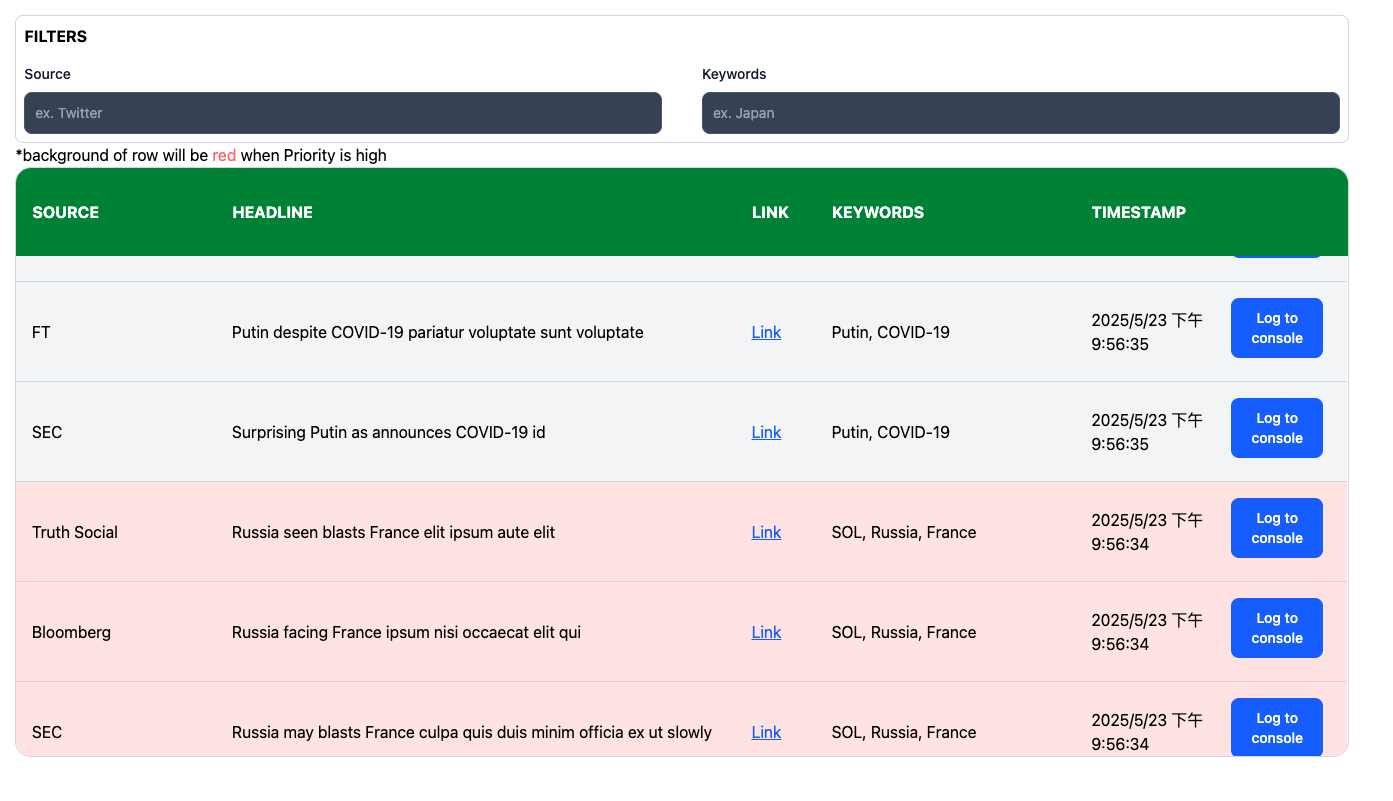
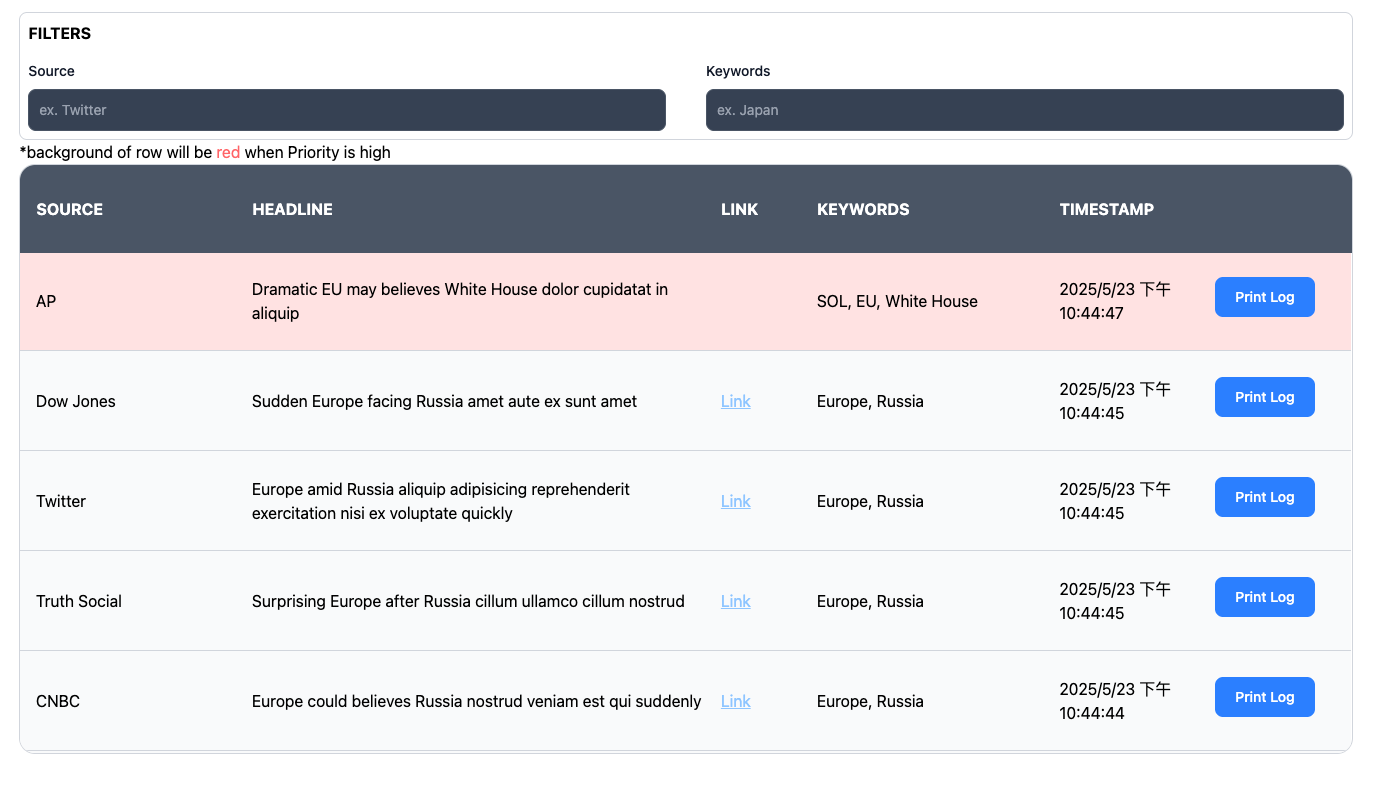
style: 💄 add UI style

diff --git a/src/Components/Table.tsx b/src/Components/Table.tsx
@@ -71,7 +71,7 @@ function Table({ itemHeight = 100, windowHeight = 500, keyFilter = '', sourceFil
             return (
               <div
                 style={style}
-                className={`px-4 border-t border-gray-300 p-2 bg-gray-100 hover:bg-gray-200 grid ${gridColumnRules} items-center ${
+                className={`px-4 border-t border-gray-300 p-2 bg-gray-50 hover:bg-gray-200 grid ${gridColumnRules} items-center ${
                   priority ? 'bg-red-100' : ''
                 }`}
               >
@@ -82,7 +82,7 @@ function Table({ itemHeight = 100, windowHeight = 500, keyFilter = '', sourceFil
                     <a
                       href={link}
                       target='_blank'
-                      className='underline text-blue-600 hover:text-blue-800 visited:text-purple-600'
+                      className='underline text-blue-300 hover:text-blue-800 visited:text-purple-600'
                     >
                       Link
                     </a>
@@ -95,10 +95,10 @@ function Table({ itemHeight = 100, windowHeight = 500, keyFilter = '', sourceFil
                 <div>
                   <button
                     type='button'
-                    className='cursor-pointer text-white bg-blue-700 hover:bg-blue-800 focus:ring-4 focus:ring-blue-300 font-medium rounded-lg text-sm px-5 py-2.5 me-2 mb-2 dark:bg-blue-600 dark:hover:bg-blue-700 focus:outline-none dark:focus:ring-blue-800'
+                    className='cursor-pointer text-white bg-blue-800 hover:bg-blue-800 focus:ring-4 focus:ring-blue-300 font-medium rounded-lg text-sm px-5 py-2.5 me-2 mb-2 dark:bg-blue-500 dark:hover:bg-blue-700 focus:outline-none dark:focus:ring-blue-800'
                     onClick={() => console.log(filteredList[index])}
                   >
-                    Log to console
+                    Print Log
                   </button>
                 </div>
               </div>

diff --git a/src/App.tsx b/src/App.tsx
@@ -40,7 +40,7 @@ function App() {
             *background of row will be <span className='text-red-400'>red</span> when Priority is high
           </div>
           <div className='border border-gray-300 rounded-2xl overflow-hidden'>
-            <div className={`px-4 py-8 col-span-7 grid ${gridColumnRules} bg-green-700 text-white`}>
+            <div className={`px-4 py-8 col-span-7 grid ${gridColumnRules} bg-gray-600 text-white`}>
               <div className='font-bold'>SOURCE</div>
               <div className='font-bold'>HEADLINE</div>
               <div className='font-bold'>LINK</div>

diff --git a/src/Components/constants.ts b/src/Components/constants.ts
@@ -1,1 +1,1 @@
-export const gridColumnRules = 'grid-cols-[200px_1fr_80px_0.5fr_140px_100px]'
+export const gridColumnRules = 'grid-cols-[200px_1fr_80px_0.5fr_140px_120px] gap-4'
